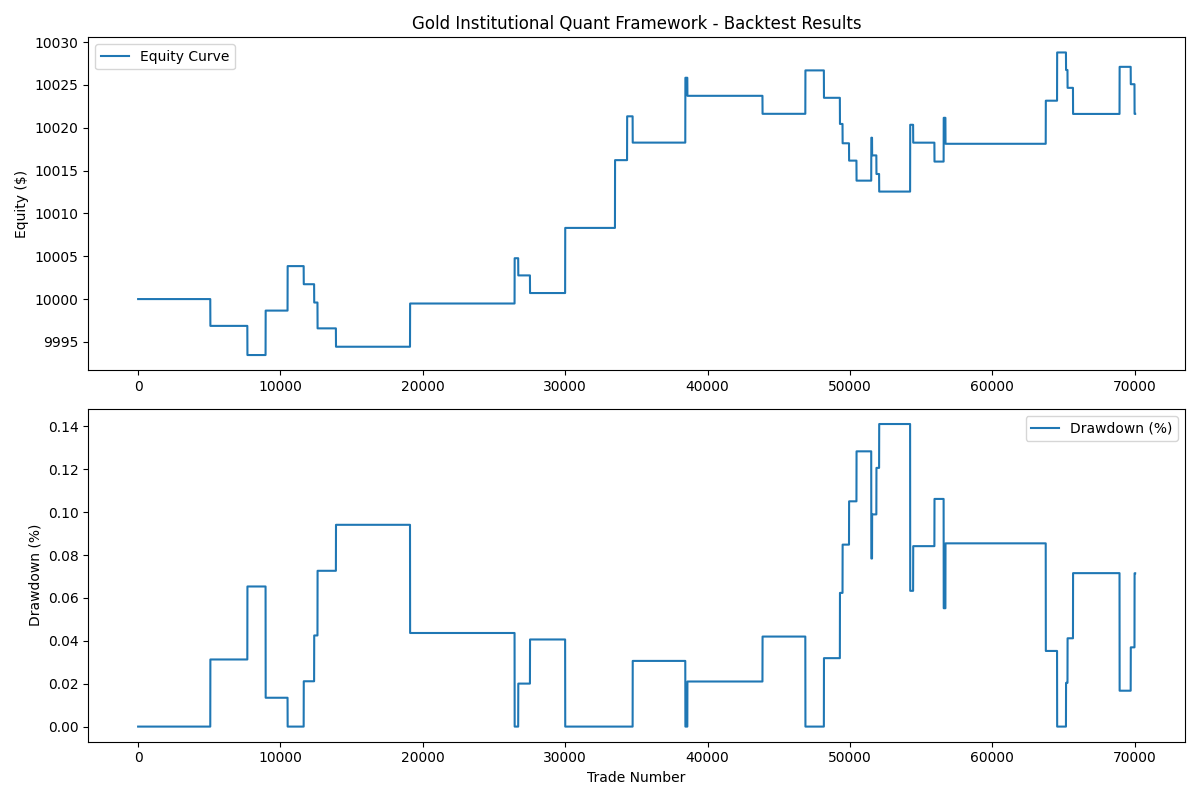
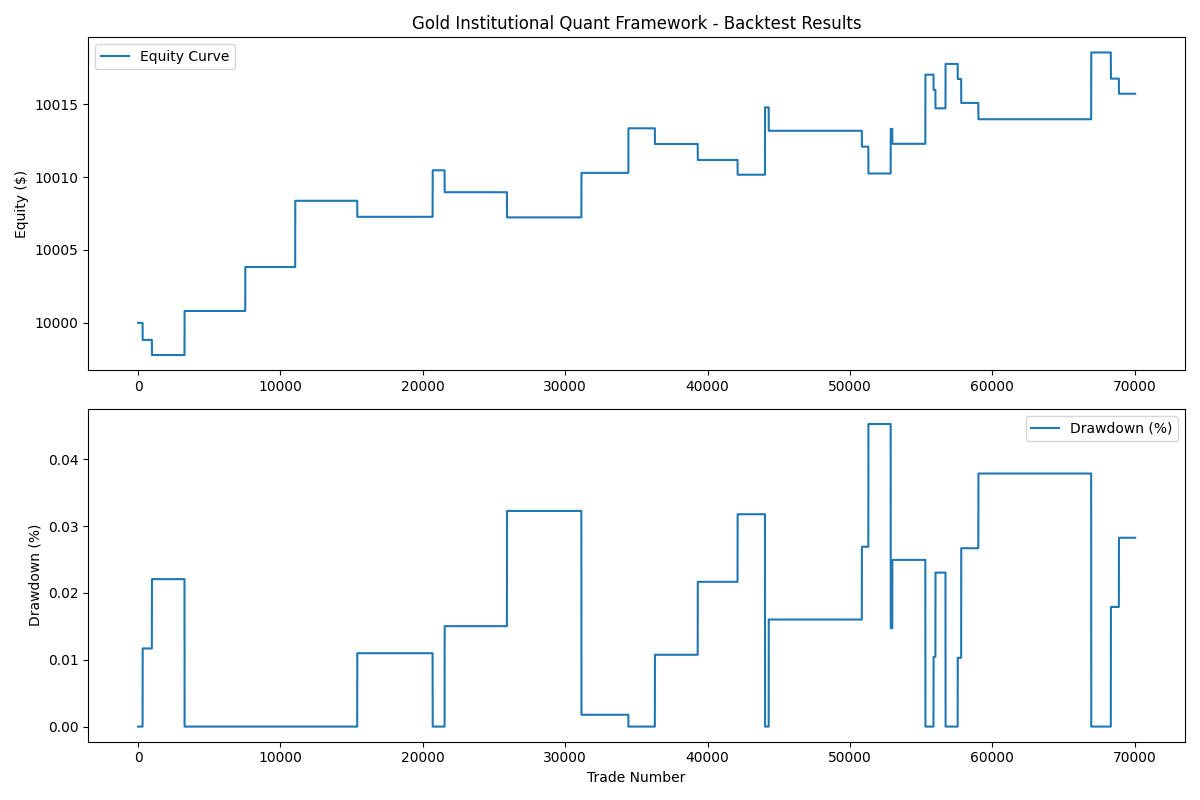
Optimize institutional framework for London session performance

diff --git a/institutional/quant_framework.py b/institutional/quant_framework.py
@@ -505,6 +505,11 @@ class GoldInstitutionalFramework:
             elif pd.Timestamp('16:00:00').time() <= current_time < pd.Timestamp('23:59:59').time():
                 session = "ny"
             
+            # EURUSD should ONLY trade during New York session to mark Asia and London high/low
+            if symbol == "EURUSD" and session != "ny":
+                logger.debug(f"EURUSD only trades during New York session, skipping {session} session")
+                return result
+            
             # Calculate macro score from actual data
             # Determine DXY trend
             if len(dxy_data) > 5:
@@ -548,9 +553,13 @@ class GoldInstitutionalFramework:
             result['confidence_score'] = confidence
             
             # Higher confidence threshold to reduce losing trades
-            min_confidence = 7.0
-            if session == "ny":
-                min_confidence = 8.0
+            min_confidence = 8.5
+            if session == "london":
+                min_confidence = 8.5  # Medium confidence for London session
+            elif session == "ny":
+                min_confidence = 9.0  # High confidence for NY session
+            elif session == "asian":
+                min_confidence = 8.0  # Slightly lower confidence for Asian session
                 
             if confidence < min_confidence:
                 logger.debug(f"Confidence score too low: {confidence:.2f}, skipping trade")
@@ -572,20 +581,24 @@ class GoldInstitutionalFramework:
             entry_price = self.calculate_entry_level(df, session_event, macro_bias)
             stop_loss = self.calculate_stop_loss(df, session_event, macro_bias)
             
-            # Adjust risk-reward based on session
+            # Adjust risk-reward based on session and symbol
             risk_reward = 2.5
             if session == "ny":
                 risk_reward = 2.0
-                
+            if symbol == "XAUUSD":
+                risk_reward = 3.0  # Higher RR for Gold to compensate for volatility
+            
             take_profit = self.calculate_take_profit(entry_price, stop_loss, risk_reward)
             
-            # Calculate risk management - smaller risk for NY session
+            # Calculate risk management - smaller risk for Gold due to volatility
             drawdown = 0
             consecutive_losses = 0
             risk_amount = self.calculate_adaptive_risk(confidence, equity, drawdown,
                                                      self.trade_count, consecutive_losses)
             
-            if session == "ny":
+            if symbol == "XAUUSD":
+                risk_amount *= 0.5  # Reduce risk by 50% for Gold
+            elif session == "ny":
                 risk_amount *= 0.7  # Reduce risk by 30% for NY session
             
             position_size = self.calculate_position_size(risk_amount, entry_price, stop_loss)
